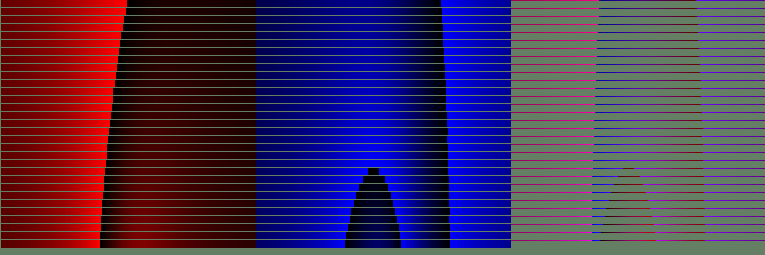
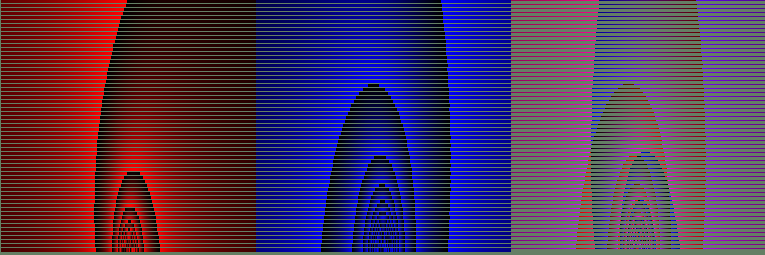
update readme

diff --git a/processing/tunnel3d/tunnel3d.java b/processing/tunnel3d/tunnel3d.java
@@ -35,7 +35,7 @@ public class tunnel3d extends PApplet {
   public void draw() {
     if(! spress ) background(100,127,100);
     
-    int fct = 31;  /* Scale factor; smaller number == bigger rows; 
+    int fct = 63;  /* Scale factor; smaller number == bigger rows; 
                      * must be less than 255 */
     int ofs = 64;  /* Start point; must be less than 255-fct */
     strokeWeight(1);

diff --git a/README.md b/README.md
@@ -5,6 +5,12 @@ These are some very loosely organized experiments, for the purpose of improving 
 
 Here's an equally loose index of what can be viewed online:
 
+
+[Koch Snowflake ](http://uni-sol.org/js-demos/kochflake.html) 
+(expansion of example from 'Canvas Pocket Reference' by D. Flanagan, 2011)
+![Koch Snowflake](kochflake.png)
+
+
 [MOV16 ](http://uni-sol.org/js-demos/mov16.html) 
 (output shows up in console; an emulation of an assembly MOV opperation on a 16-bit microprocessor) 
 
@@ -13,10 +19,6 @@ Here's an equally loose index of what can be viewed online:
 
 [Try 'this' ](http://uni-sol.org/js-demos/this.html) 
 (comparing use of 'this' v.s. vars within methods; partially based on code from 'JavaScript Enlightenment' by C. Lindley, 2012)
-
-[Koch Snowflake ](http://uni-sol.org/js-demos/kochflake.html) 
-(expansion of example from 'Canvas Pocket Reference' by D. Flanagan, 2011)
-![Koch Snowflake](kochflake.png)
 
 
 [FFT Simple ](http://uni-sol.org/js-demos/fft-simple.html) 
@@ -32,6 +34,7 @@ Here's an equally loose index of what can be viewed online:
 [Visualizer (+VIDEO) ](http://uni-sol.org/js-demos/happy-b-day.html)
 (continues exploration of music visualization, adding real-time compositing of HTML5 video)
 ![Visualizer+Video](fathers.png)
+
 
 Stylogical Maps 
 (these demos were my first efforts with HTML5 Canvas, initially using the Processing.js API. Later demos in the series use direct calls to the Canvas API)
